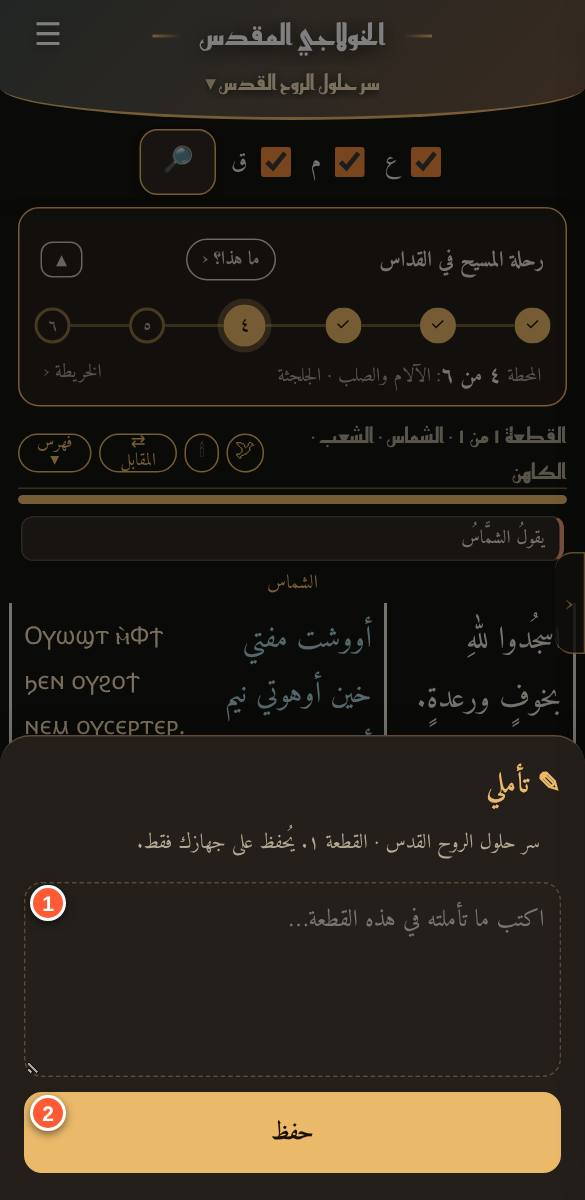
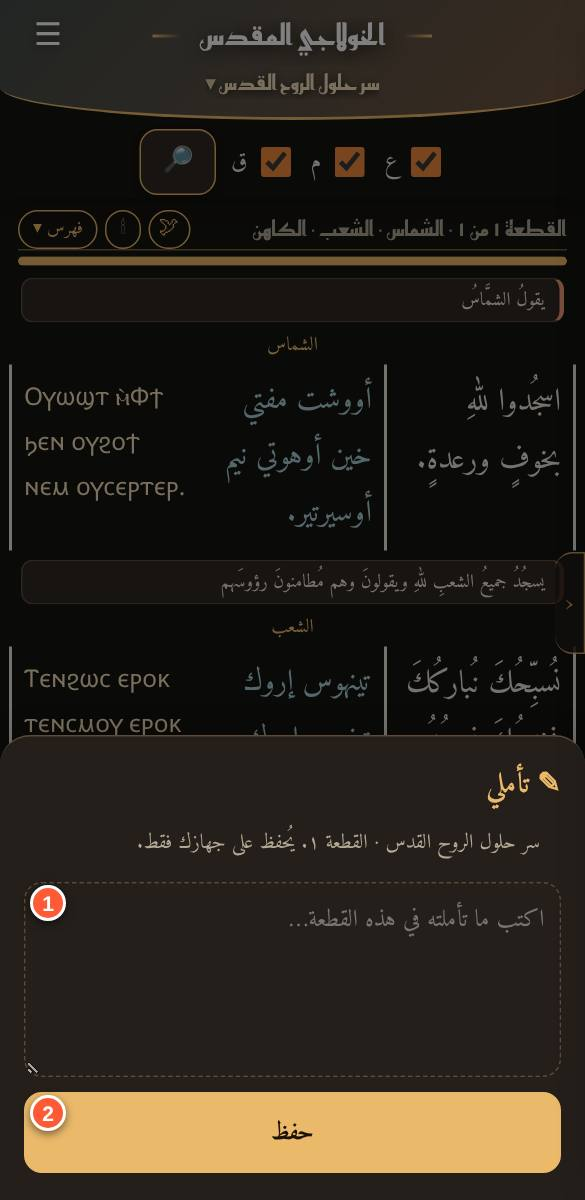
ربط الأجزاء المشتركة (الاستعداد والكلمة) وافتتاح الأنافورا والتناول بين القداسات (r136)
Claude-Session: https://claude.ai/code/session_01TxsQH8W41ZBNhnMhe9bVaK

diff --git a/study.js b/study.js
@@ -87,7 +87,7 @@ function refsOf(c){var seen={},list=[];Object.keys(c.notes||{}).forEach(function
 var SYNC=[
  [["bas-hijab"],["greg-hijab","greg-hijab2"],["cyr-hijab"]],
  [["bas-solh","bas-aspasmos"],["greg-solh","greg-solh2"],["cyr-solh"]],
- [["bas-anaphora"],["greg-anaphora"],null],
+ [["bas-anaphora"],["greg-anaphora"],["cyr-solh"]],
  [["bas-mustahiq"],["greg-mustahiq","greg-feto"],["cyr-mustahiq"]],
  [["bas-qudduus"],["greg-qudduus","greg-ntok"],["cyr-qudduus","cyr-laanka"]],
  [["bas-tajassud","bas-qam"],["greg-anta-sayyidi","greg-anta-kain","greg-uqaddim"],null],
@@ -101,25 +101,36 @@ var SYNC=[
  [["bas-qisma-intro","bas-tartib"],["greg-qisma-intro"],["cyr-qisma-intro"]],
  [["bas-qisma"],["greg-qisma"],["cyr-qisma"]],
  [["bas-after-qisma","bas-khudu","bas-tahlil-ab","bas-tazkar-ab"],["greg-tahalil"],["cyr-after-qisma"]],
- [["bas-qabl-itiraf","bas-itiraf"],["greg-itiraf"],["cyr-itiraf"]],
+ [["bas-qabl-itiraf","bas-itiraf","bas-comm"],["greg-itiraf"],["cyr-itiraf"]],
  [["bas-before-comm"],null,["cyr-before-comm"]],
  [["bas-after-comm","bas-wad-yad","bas-tasrih"],["greg-after-comm"],["cyr-after-comm"]],
  [["bas-blessing","bas-nihaya"],["greg-blessing"],["cyr-blessing"]]];
 var LNAME=["القداس الباسيلي","القداس الغريغوري","القداس الكيرلسي"];
+/* أجزاء الاستعداد والكلمة مشتركة بين القداسات الثلاثة، وموجودة في الكتاب ضمن القداس الباسيلي فقط */
+var COM_A=["bas-istid","bas-hamal","bas-tazkarat","bas-dawra","bas-shukr","bas-taqdima","bas-qiraat-tahlil","bas-tahlil-khuddam","bas-paul","bas-kathulikon","bas-ibraxis","bas-qadasat","bas-ewash-ing","bas-sir-ing"];
+var COM_B=["bas-after-ing","bas-amana"];
+var COM_PICK_A=["bas-istid","bas-shukr","bas-taqdima","bas-paul","bas-sir-ing"];
 function syncTargets(id){
-  var row=null;SYNC.forEach(function(r){if(!row&&r.some(function(c){return c&&c.indexOf(id)>-1}))row=r});if(!row)return[];
-  var me=-1;row.forEach(function(c,i){if(c&&c.indexOf(id)>-1)me=i});
-  var out=[];row.forEach(function(c,i){if(i===me||!c)return;c.forEach(function(t,k){if(K.BYID[t]&&K.BYID[t].has)out.push({lit:i,id:t,primary:k===0,title:K.BYID[t].title})})});
+  var out=[],row=null;SYNC.forEach(function(r){if(!row&&r.some(function(c){return c&&c.indexOf(id)>-1}))row=r});
+  if(row){var me=-1;row.forEach(function(c,i){if(c&&c.indexOf(id)>-1)me=i});
+    row.forEach(function(c,i){if(i===me||!c)return;c.forEach(function(t,k){if(K.BYID[t]&&K.BYID[t].has)out.push({lit:i,id:t,primary:k===0,title:K.BYID[t].title})})})}
+  var add=function(lit,t,primary,note){if(K.BYID[t]&&K.BYID[t].has&&!out.some(function(x){return x.id===t}))out.push({lit:lit,id:t,primary:primary,note:note,title:K.BYID[t].title})};
+  var nx=null;if(COM_A.indexOf(id)>-1)nx=["greg-hijab","cyr-hijab"];else if(COM_B.indexOf(id)>-1)nx=["greg-solh","cyr-solh"];
+  if(nx){add(1,nx[0],true,"يتبع هذا الجزء في هذا القداس");add(2,nx[1],true,"يتبع هذا الجزء في هذا القداس")}
+  if(id==="greg-intro")add(0,"bas-istid",true,"البداية مشتركة (في الباسيلي)");
+  if(id==="greg-hijab"||id==="greg-hijab2"||id==="cyr-hijab")COM_PICK_A.forEach(function(t){add(0,t,false,"مشترك قبل الحجاب (في الباسيلي)")});
+  if(id==="cyr-solh"){add(0,"bas-anaphora",false,"افتتاح الأنافورا يقع في آخر هذه الصلاة");add(1,"greg-anaphora",false,"افتتاح الأنافورا يقع في آخر هذه الصلاة")}
+  if(id==="greg-solh"||id==="greg-solh2"||id==="cyr-solh")COM_B.forEach(function(t){add(0,t,false,"مشترك قبل الصلح (في الباسيلي)")});
   return out}
 function syncBar(id){
-  var tg=syncTargets(id).filter(function(x){return x.primary});if(!tg.length)return"";
+  var tg=syncTargets(id).filter(function(x){return x.primary&&!x.note});if(!tg.length)return"";
   var b="";tg.forEach(function(x){b+='<button class="lsb" data-u0="1" data-nav="#/s/'+x.id+'">↔ '+LNAME[x.lit]+'</button>'});
   return '<div class="lsw"><small>نفس الجزء في:</small>'+b+'</div>'}
 function syncSheet(id){
   var tg=syncTargets(id);if(!tg.length)return"";
   var h='<h3>المقابل في القداسات الأخرى</h3><p class="hint">تقسيم الكتاب بالصفحات، فالمقابلة تقريبية بحسب المعنى وموضعه من الأنافورا.</p>';
   [0,1,2].forEach(function(l){var a=tg.filter(function(x){return x.lit===l});if(!a.length)return;
-    h+='<div class="hpt">'+LNAME[l]+'</div><div class="list">';a.forEach(function(x){h+='<button class="sec" data-snav="'+x.id+'"><span>'+esc(x.title)+'</span><small>'+(x.primary?'المقابل الأساسي':'جزء مرتبط')+'</small></button>'});h+='</div>'});
+    h+='<div class="hpt">'+LNAME[l]+'</div><div class="list">';a.forEach(function(x){h+='<button class="sec" data-snav="'+x.id+'"><span>'+esc(x.title)+'</span><small>'+(x.note||(x.primary?'المقابل الأساسي':'جزء مرتبط'))+'</small></button>'});h+='</div>'});
   return h}
 function guideHtml(id,s,c){
   var sb=syncBar(id);

diff --git a/guide-news.js b/guide-news.js
@@ -1,6 +1,7 @@
 /* سجل الميزات الجديدة (الأحدث أولا). كل ميزة جديدة تُضاف هنا كمدخل جديد في أعلى القائمة،
    ثم تُحدَّث مواصفة الصفحة المتأثرة في tools/make-guide.js وتُعاد اللقطات (node tools/make-guide.js). */
 window.KG_NEWS=[
+{v:"r136",t:"ربط أجزاء الاستعداد والكلمة والأنافورا",x:"زر «⇄ المقابل» صار يربط أيضا الأجزاء المشتركة التي في الكتاب ضمن القداس الباسيلي فقط (الاستعداد والتقدمة والقراءات والإنجيل والأمانة): من الغريغوري والكيرلسي تصل إليها، ومن الباسيلي تصل للجزء الذي يتبعها (الحجاب أو الصلح). وأُضيف ربط افتتاح الأنافورا وجزء التناول."},
 {v:"r135",t:"المقابل بين القداسات الثلاثة",x:"في القراءة، زر «⇄ المقابل» بجوار الفهرس يفتح قائمة بالجزء المقابل في القداسين الآخرين (باسيلي · غريغوري · كيرلسي) لتنتقل بينها مباشرة. وأُعيدت مراجعة المقابلات بحسب موضع كل جزء من الأنافورا (الصلح، مستحق، قدوس، التجسد، التقديس، حلول الروح، الأواشي، المجمع، الترحيم، القسمة، الاعتراف، التناول، البركة)."},
 {v:"r134",t:"خط مستقل لكل نوع نص + الإعدادات مطوية دائما",x:"لم يعد الخط يغيّر كل شيء. في الإعدادات › «الخطوط» تختار خطا لكل نوع على حدة: العناوين والهيدر، النص العربي، المعرَّب، الإرشادات الحمراء، التأملات، الشروحات، الهمسات. صفحة الإعدادات والقوائم لها خط ثابت لا يتأثر. وكل مجموعات الإعدادات تبدأ مطوية في كل مرة تفتح فيها الإعدادات."},
 {v:"r133",t:"إشارات مرجعية للتأمل والهمسة في الدرج",x:"عند اختيار «في الدرج السفلي» للتأمل أو الهمسة، يبقى بعد القطعة زر صغير مرقّم («💭 تأمل ١» و«🕊 همسة ١») يفتح الدرج على محتواه، مثل الشروحات. الأرقام نفسها تظهر في الدرج."},

diff --git a/sw.js b/sw.js
@@ -1,4 +1,4 @@
-const CACHE_NAME='khulagi-v1.5-shell-r135';
+const CACHE_NAME='khulagi-v1.5-shell-r136';
 const FILES=['./','index.html','guide-news.js','guide-pages.js','guide/doxologies.jpg','guide/library.jpg','guide/lists.jpg','guide/lit.jpg','guide/notes.jpg','guide/post.jpg','guide/pre.jpg','guide/reader.jpg','guide/settings.jpg','guide/sidx.jpg','guide/splash.jpg','guide/story.jpg','guide/today.jpg','reemkufi-arabic-700-normal.woff2','dawn.jpg','data.js','study.js','swipe.js','live.js','story.js','study-data.js','data-bible.js','content-raf.txt','content-bas.txt','content-greg.txt','content-cyr.txt','content-qisam.txt','content-misc.txt','content-bless.txt','content-app.txt','content-taqs.txt','content-dox.txt','manifest.webmanifest','icon-192.png','icon-512.png','amiri-arabic-400-normal.woff2','amiri-arabic-700-normal.woff2','amiri-latin-400-normal.woff2','tajawal-arabic-400.woff2','tajawal-latin-400.woff2','tajawal-arabic-700.woff2','tajawal-latin-700.woff2','cairo-arabic-400-normal.woff2','cairo-arabic-700-normal.woff2','el-messiri-arabic-400-normal.woff2','el-messiri-arabic-700-normal.woff2','lateef-arabic-400-normal.woff2','lateef-arabic-700-normal.woff2','markazi-text-arabic-400-normal.woff2','markazi-text-arabic-700-normal.woff2','noto-naskh-arabic-arabic-400-normal.woff2','noto-naskh-arabic-arabic-700-normal.woff2','reem-kufi-arabic-400-normal.woff2','reem-kufi-arabic-700-normal.woff2','scheherazade-new-arabic-400-normal.woff2','scheherazade-new-arabic-700-normal.woff2','amiri-latin-700-normal.woff2','noto-sans-coptic-coptic-400-normal.woff2','noto-sans-coptic-latin-400-normal.woff2'];
 self.addEventListener('install',e=>{e.waitUntil(caches.open(CACHE_NAME).then(c=>Promise.all(FILES.map(f=>c.add(new Request(f,{cache:'reload'})).catch(()=>{})))).then(()=>self.skipWaiting()))});
 self.addEventListener('activate',e=>{e.waitUntil(caches.keys().then(k=>Promise.all(k.filter(x=>x!==CACHE_NAME).map(x=>caches.delete(x)))).then(()=>self.clients.claim()))});

diff --git a/guide-pages.js b/guide-pages.js
@@ -229,7 +229,23 @@ window.KG_PAGES=[
   "title": "رحلة المسيح في القداس",
   "img": "guide/story.jpg",
   "summary": "القداس يعيد رحلة المسيح من الميلاد للصعود. هذه الورقة تشرح أي محطة أنت فيها.",
-  "items": [],
+  "items": [
+   [
+    1,
+    "ما هذه الخريطة؟",
+    "شرح قصير للفكرة."
+   ],
+   [
+    2,
+    "أنت هنا",
+    "المحطة التي تقابل ما تقرؤه الآن."
+   ],
+   [
+    3,
+    "يقابل في القداس",
+    "الجزء من القداس الذي يقابل هذه المحطة."
+   ]
+  ],
   "nav": "في أعلى القراءة: اضغط الصف لتصغير الشريط لدوائر المحطات فقط، وبنفس الضغطة يكبر."
  },
  {
